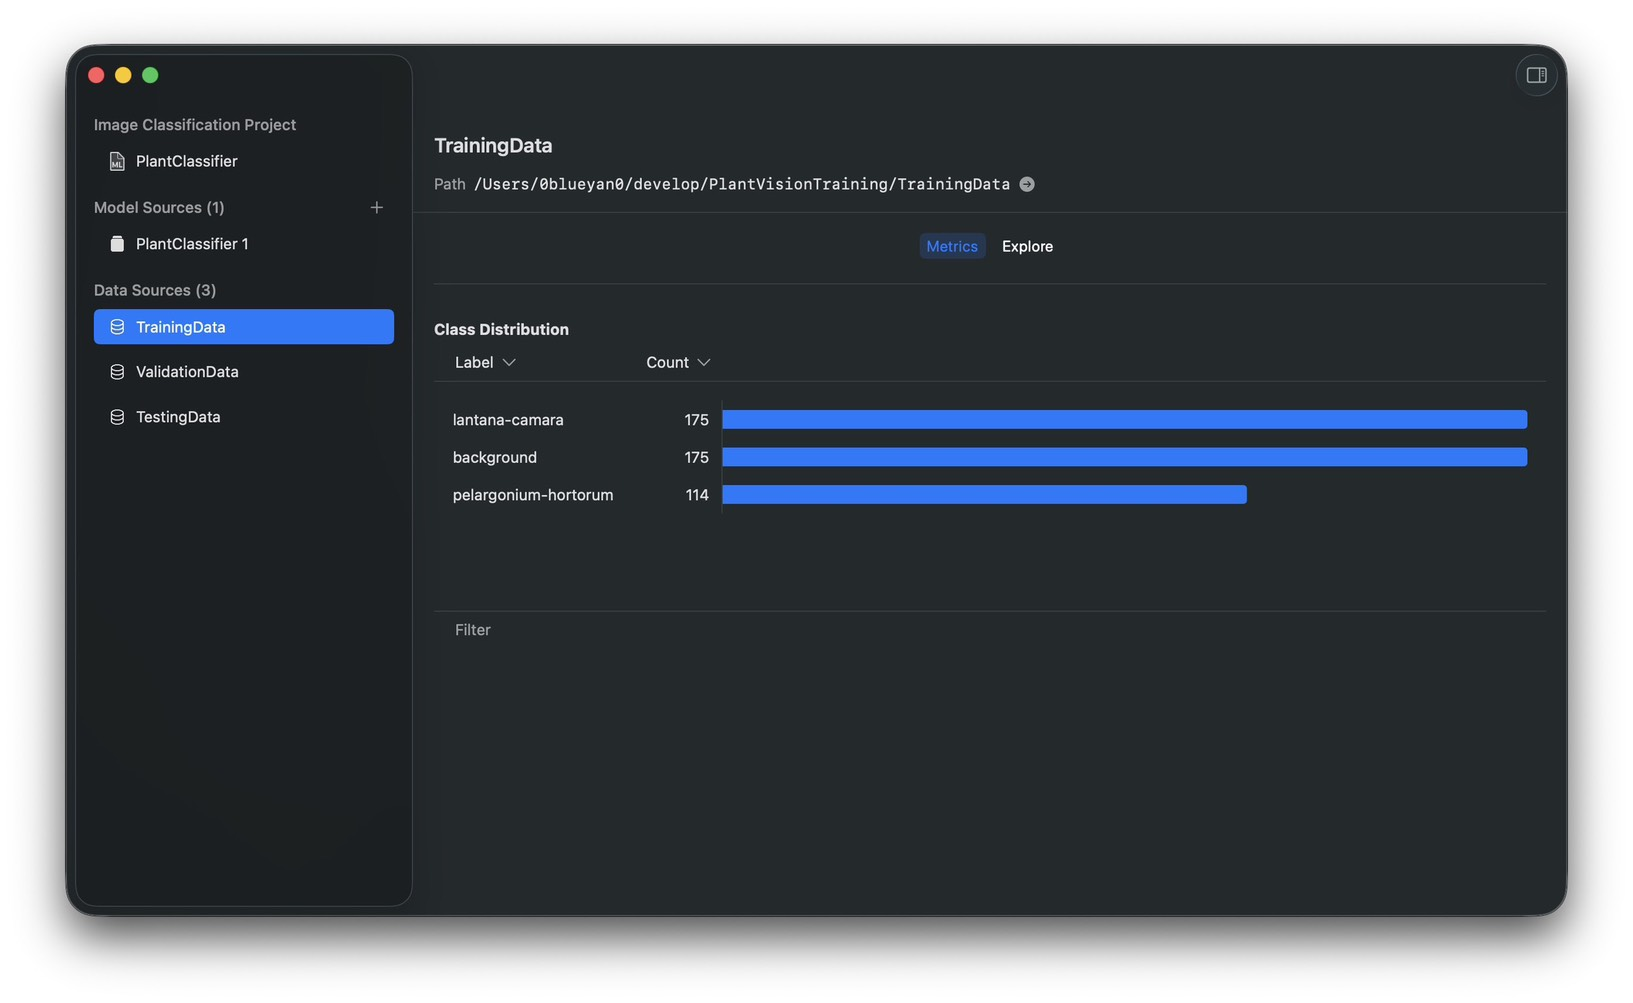
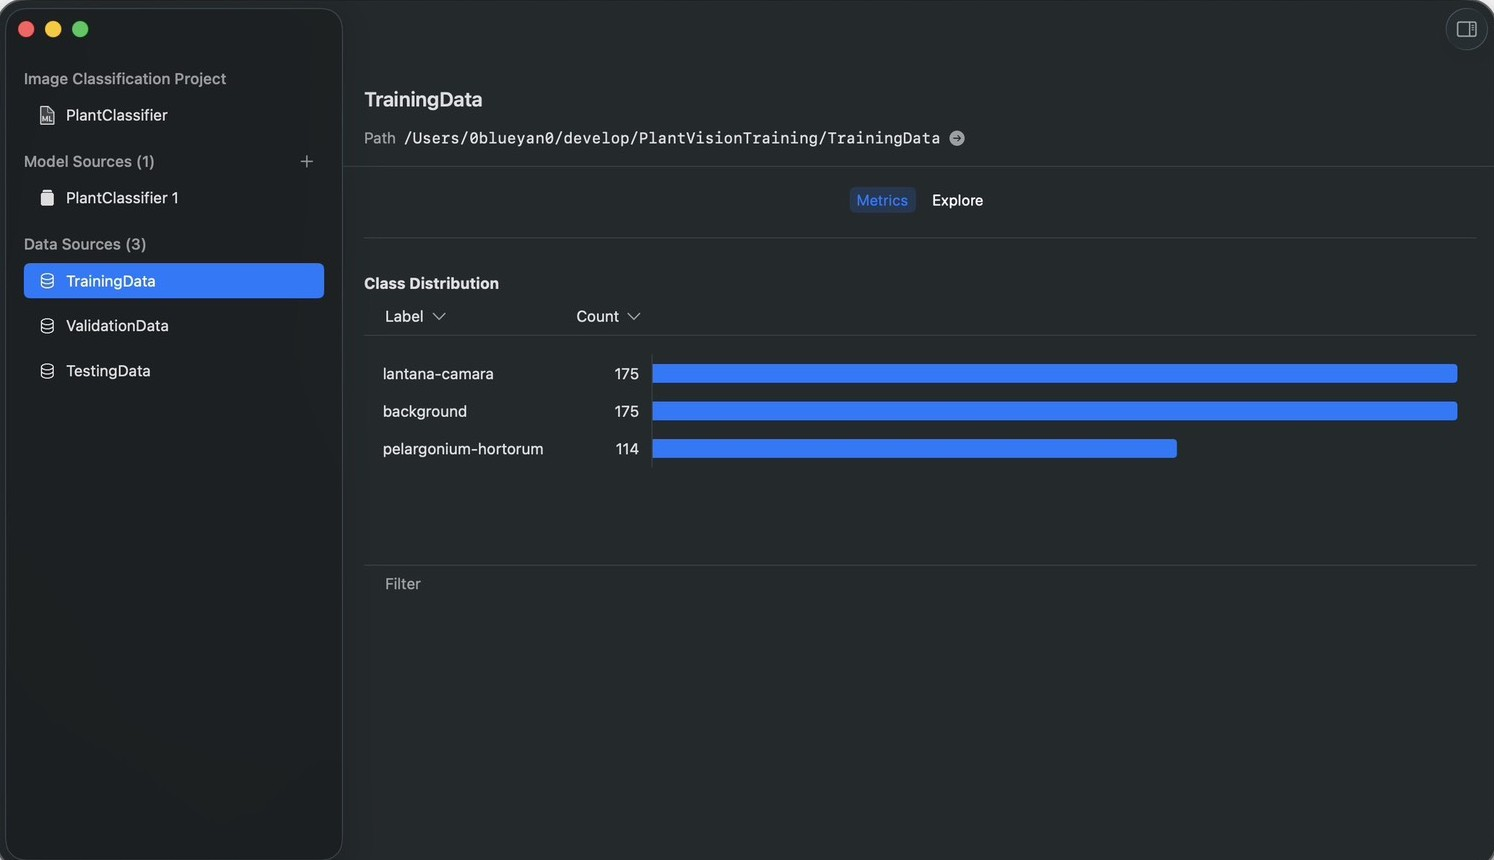
fix(slides): MacBook 畫面置中等距,消除歪斜
- 裁掉 4 張 Mac 截圖外圍不對稱的視窗陰影邊(底厚頂薄)
- MacbookFrame 改 object-fit contain:固定 16:10 螢幕內視窗完整、
  置中、上下左右等距,深色襯底與視窗同色

diff --git a/apps/demo/slides/plantvision-architecture/index.tsx b/apps/demo/slides/plantvision-architecture/index.tsx
@@ -725,11 +725,11 @@ const MacbookFrame = ({ src, alt, sh }: { src: string; alt: string; sh: number }
           border: '1px solid rgba(0,0,0,0.35)',
         }}
       >
-        <div style={{ width: sw, height: sh, overflow: 'hidden', borderRadius: 5, background: '#000' }}>
+        <div style={{ width: sw, height: sh, overflow: 'hidden', borderRadius: 5, background: '#0b0c0d', display: 'flex', alignItems: 'center', justifyContent: 'center' }}>
           <img
             src={src}
             alt={alt}
-            style={{ width: '100%', height: '100%', objectFit: 'cover', objectPosition: 'center', display: 'block' }}
+            style={{ width: '100%', height: '100%', objectFit: 'contain', objectPosition: 'center', display: 'block' }}
           />
         </div>
       </div>
